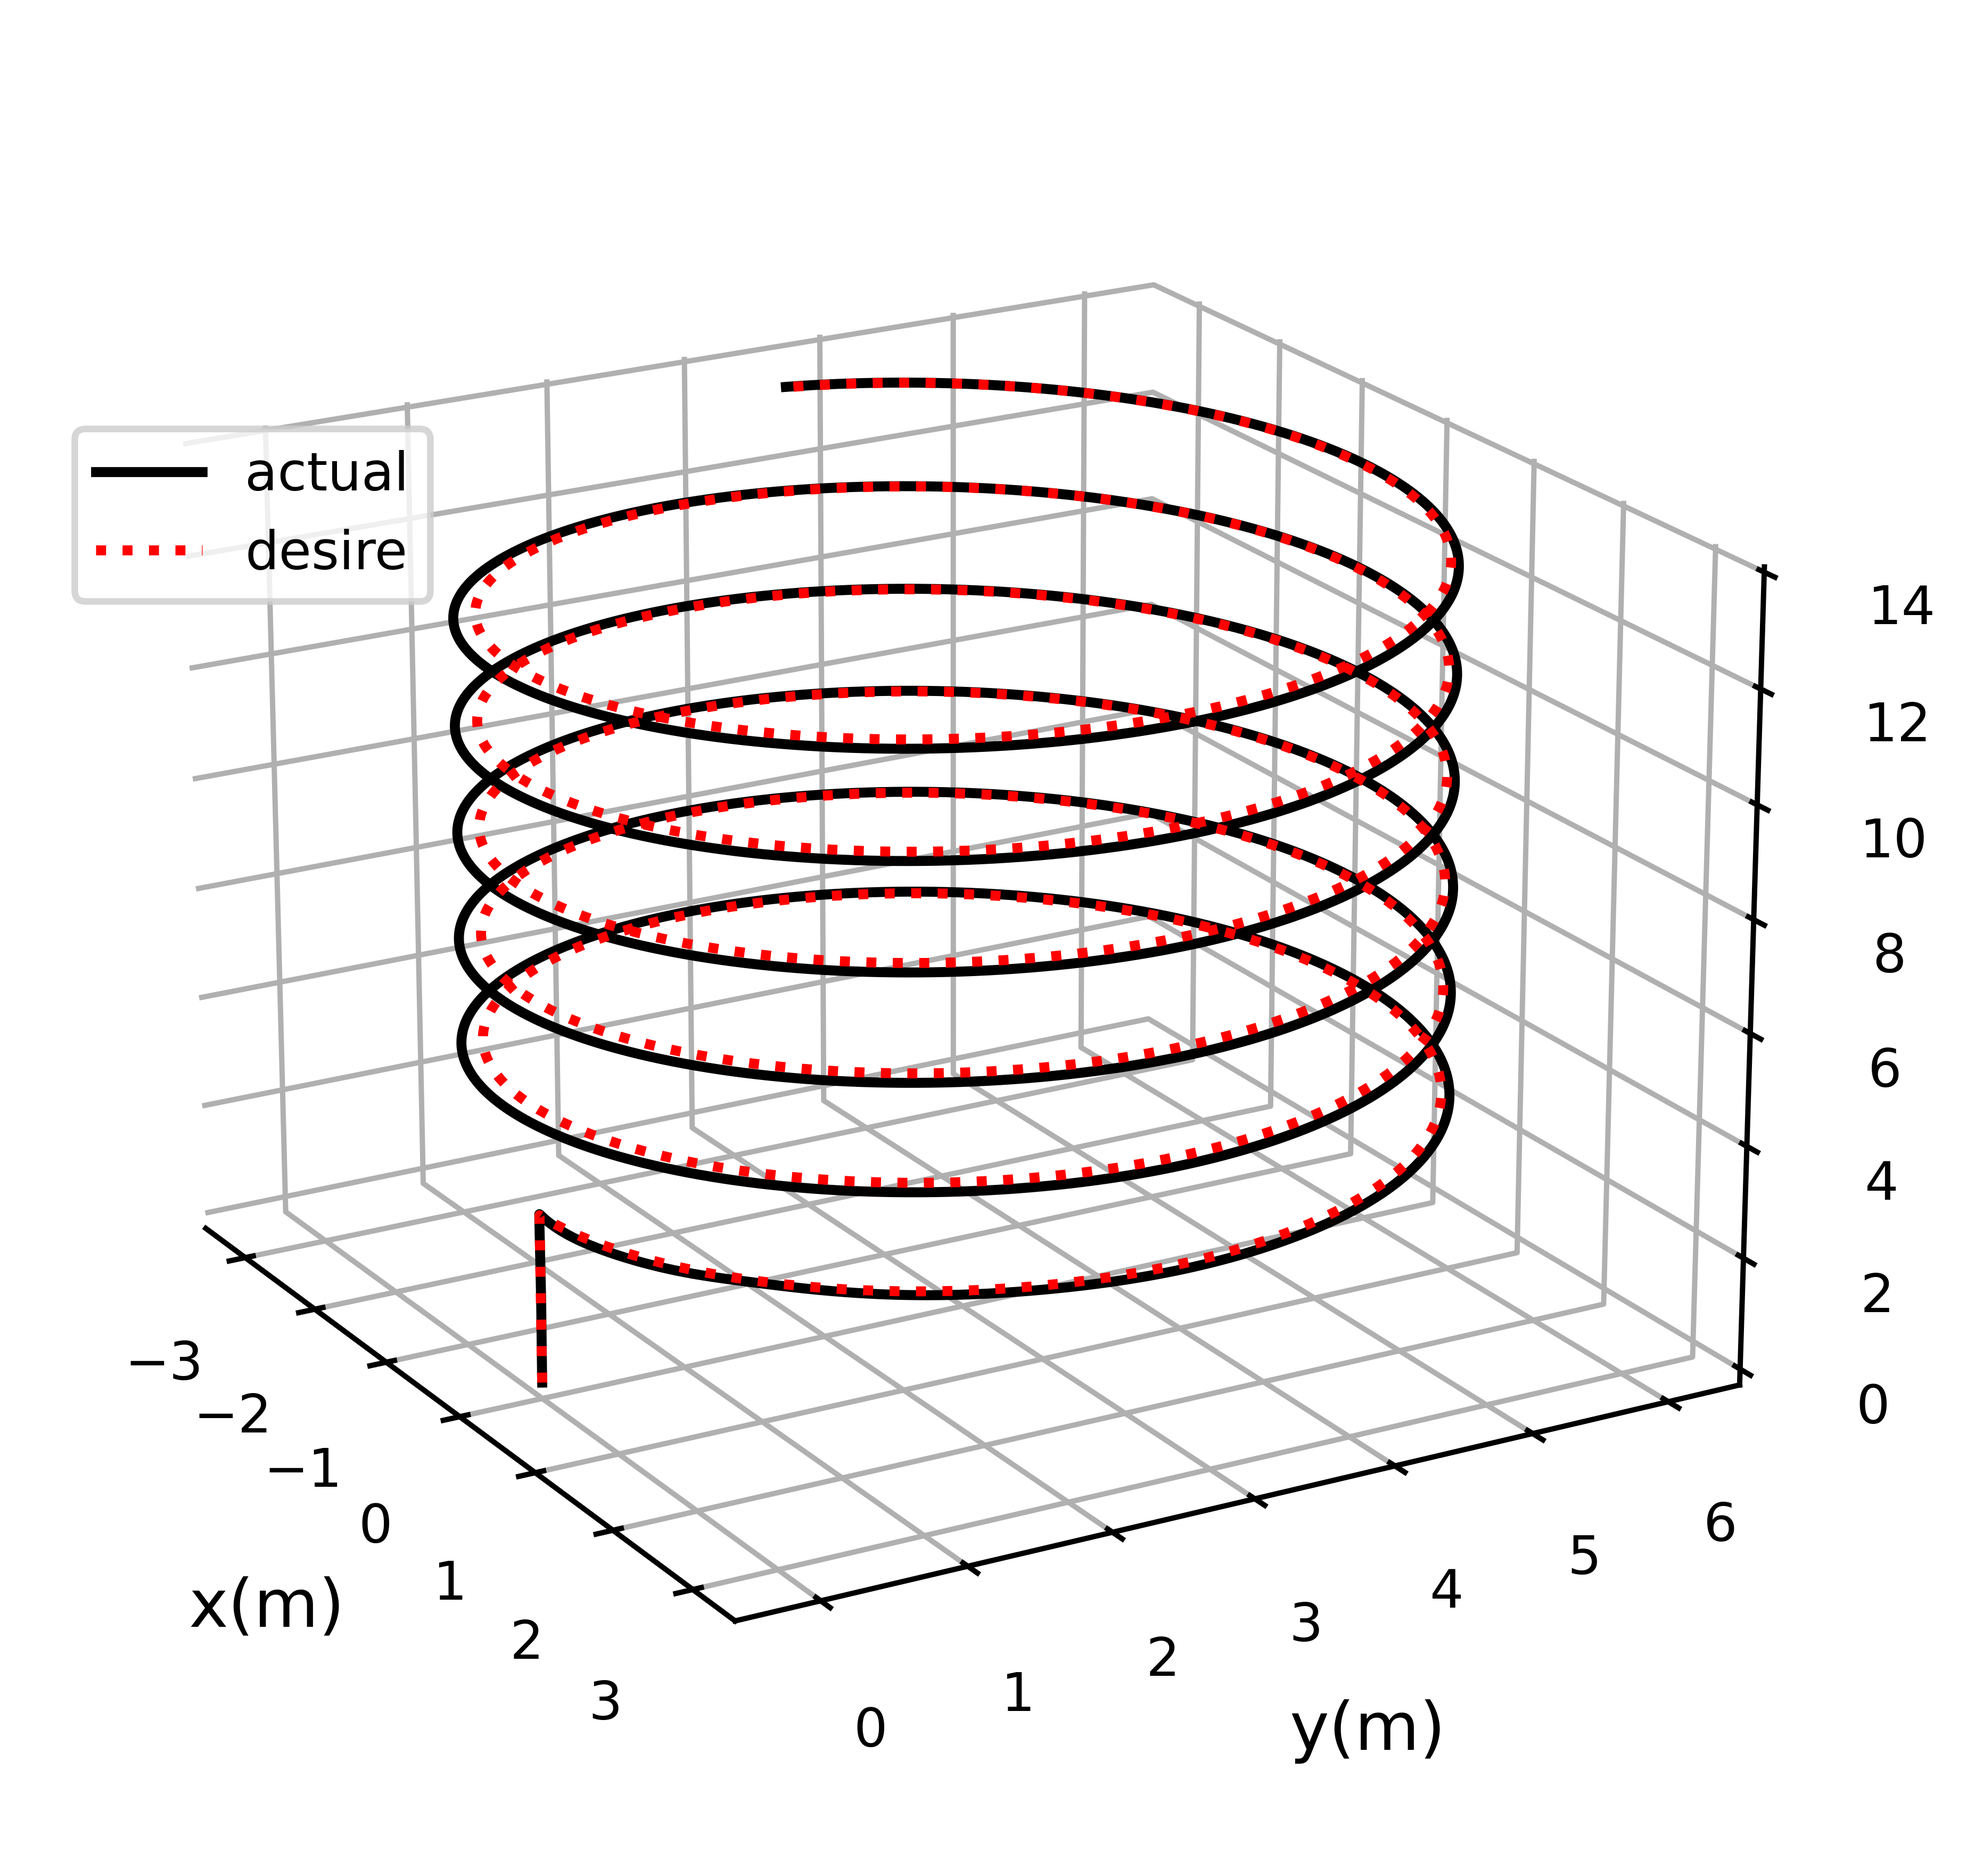
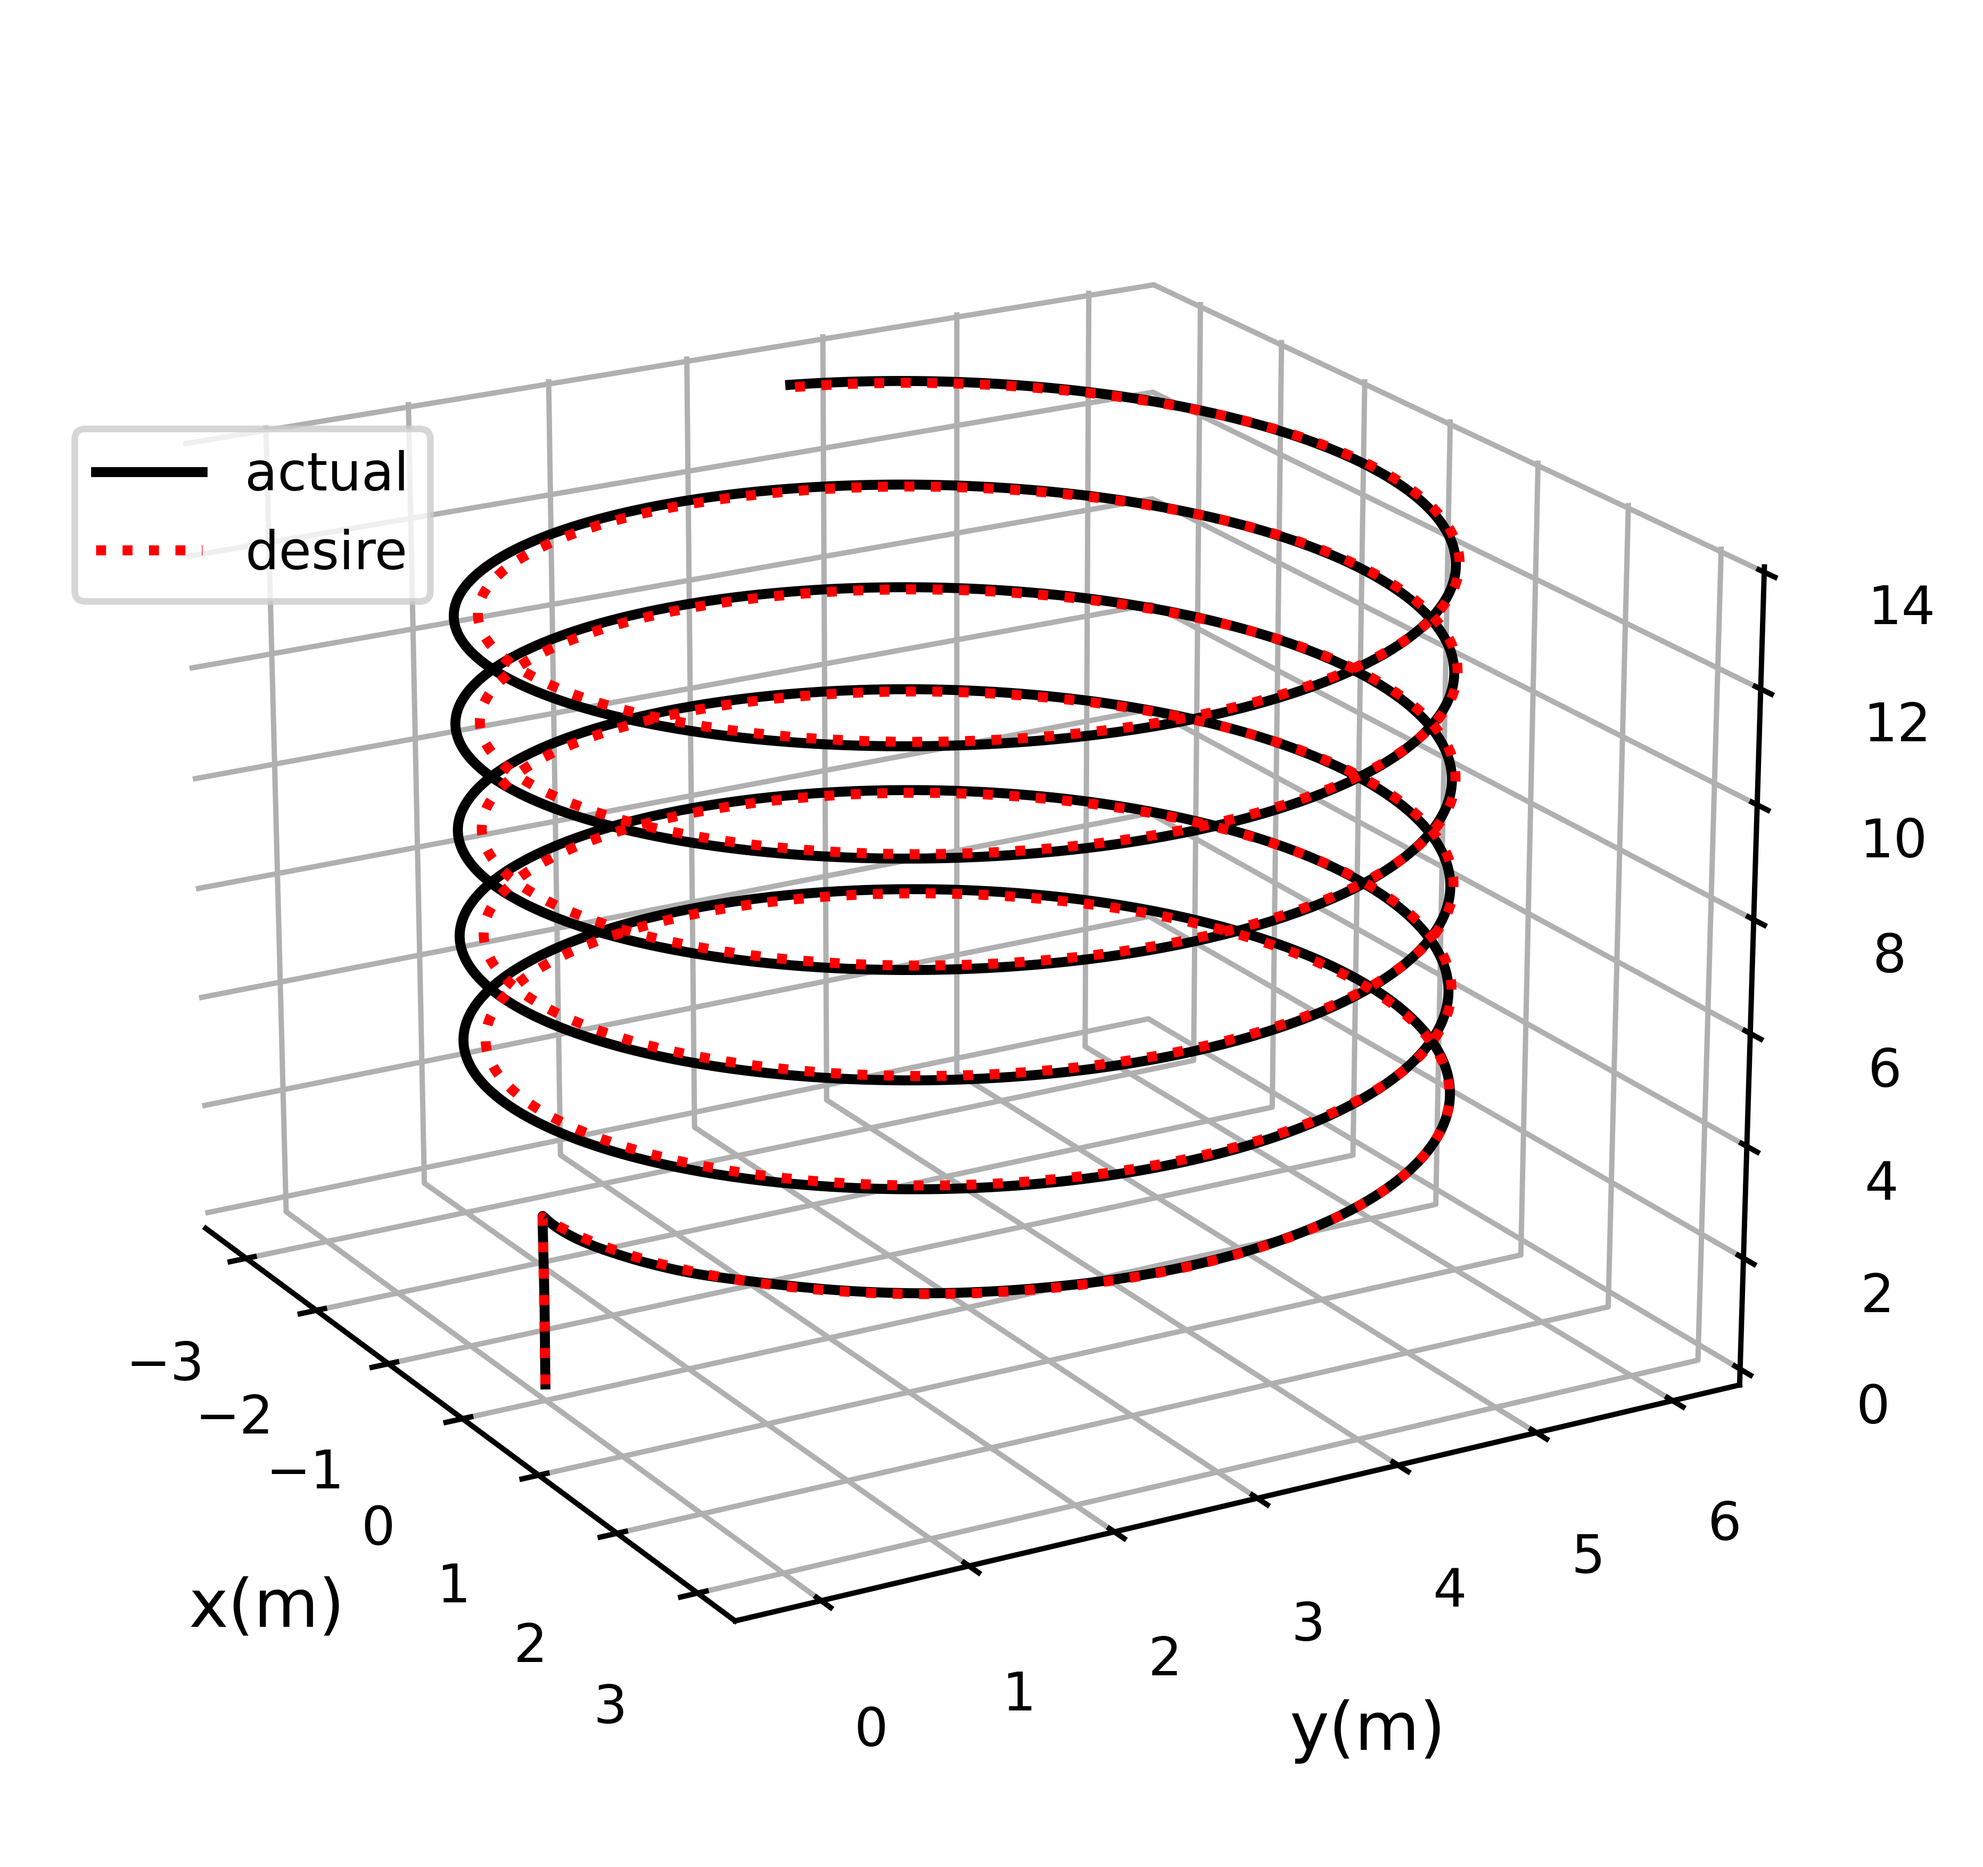
可以正常使用的几何控制

diff --git a/geometric_control_demo.py b/geometric_control_demo.py
@@ -1,0 +1,69 @@
+import math
+
+import matplotlib.pyplot as plt
+import numpy as np
+from model import quadrotors_model as QModel
+from model import quadrotors_parameters as QPara
+from draw import draw  # 导入draw模块
+from draw import draw3d  # 导入draw3d模块
+from tools import tools, trajectory_generator
+from controllers import geometric_controller
+
+def main():
+    quadrotors_model = QModel.QuadrotorsModel()  # 创建四旋翼模型对象
+    controller = geometric_controller.geometric_controller(QPara.m, QPara.g)
+    traj_generator = trajectory_generator(QPara.dt, trajectory_generator.CIRCULAR)
+    t = []  # 创建时间列表，初始时间为0
+    y_list = []
+    des_traj = []
+    t_now = 0  # 当前时间初始化为0
+
+    ctrl_buffer = np.zeros(6)
+    error_buffer = np.zeros(6)
+    takeoff_flag = False    # 起飞完成标志
+    while t_now < 60:
+        # 记录当前模型的状态
+        y_now = quadrotors_model.measurement
+        y_list.append(y_now)
+        # 提取无人机的姿态
+        attitude = y_now[6:9]
+        angular_vel = np.array(y_now[9:12]).reshape(-1, 1) 
+        r = np.array(y_now[:3]).reshape(-1, 1)
+        r_dot = np.array(y_now[3:6]).reshape(-1, 1)
+        R = tools.getR(attitude).reshape(3, 3)
+        # 获取参考轨迹
+        if not takeoff_flag and abs(quadrotors_model.measurement[2]) < abs(traj_generator.takeoff_height):
+            # step 1： 起飞
+            des_traj = traj_generator.takeoff()
+        else:
+            # step 2： 跟踪轨迹
+            takeoff_flag = True
+            des_traj = traj_generator.get_trajectory()
+        # 提取参考轨迹
+        r_des = np.array(des_traj[:3]).reshape(-1, 1)
+        psi_des = 0
+        r_dot_des = np.array(des_traj[4:]).reshape(-1, 1)
+        # 计算控制量
+        f_tau = controller.calculate_output(r, r_dot, R, angular_vel, r_des, r_dot_des, np.array([0,0,0]).reshape(-1,1), psi_des)
+        print("t: {}s   f:{:.2f}  u2:{:.6f}  u3:{:.6f}  u4:{:.6f}".format(t_now, f_tau[0][0], f_tau[1][0], f_tau[2][0], f_tau[3][0]))
+        # 计算油门
+        throttle = tools.calculate_throttle(f_tau, QPara.thrust_matrix, QPara.Cr)
+        # 更新模型
+        quadrotors_model.step(throttle, t_now)
+        # 记录轨迹与误差
+        t.append(t_now)
+        t_now += QPara.dt  # 增加时间步长
+        ctrl_out = controller.desire_state.flatten()
+        ctrl_buffer = np.vstack((ctrl_buffer, ctrl_out))
+        error_out = np.hstack([(r-r_des).flatten(), controller.desire_state.flatten()[3:]-attitude])
+        error_buffer = np.vstack((error_buffer, error_out))
+    t.append(t_now) # 保持长度一致
+    # 绘图
+    draw.draw(t,ctrl_buffer, quadrotors_model.measurement_buffer, 1, 0, "euler")
+    draw.draw_error(t, error_buffer, "error")
+    draw3d.draw3d( ctrl_buffer, quadrotors_model.measurement_buffer, 0, "euler3D")
+    plt.show()
+
+if __name__ == '__main__':
+    main()  # 调用main()函数进行程序执行
+    print("ok")

diff --git a/draw/draw.py b/draw/draw.py
@@ -104,7 +104,7 @@ def draw(t, ctrl_buffer, measurement, eval, coordinate, fig_name):
 
     plt.tight_layout(pad=0.2, h_pad=0.2, w_pad=0.2)
     plt.subplots_adjust(left=0.103, bottom=0.105, right=0.977, top=0.969, wspace=0.8, hspace=0.277)
-    # plt.savefig('./images/{}.png'.format(fig_name), format='png', dpi=900, bbox_inches='tight')
+    plt.savefig('./images/{}.png'.format(fig_name), format='png', dpi=900, bbox_inches='tight')
     # plt.show()
     # plt.close()
 
@@ -180,7 +180,7 @@ def draw_error(t, error_buffer, fig_name):
 
     plt.tight_layout(pad=0.2, h_pad=0.2, w_pad=0.2)
     plt.subplots_adjust(left=0.103, bottom=0.105, right=0.977, top=0.969, wspace=0.8, hspace=0.277)
-    # plt.savefig('./images/{}.png'.format(fig_name), format='png', dpi=900, bbox_inches='tight')
+    plt.savefig('./images/{}.png'.format(fig_name), format='png', dpi=900, bbox_inches='tight')
     # plt.show()
 
 

diff --git a/tools/tools.py b/tools/tools.py
@@ -122,8 +122,11 @@ def sat_gd(u, a, size):
             return a * np.divide(u, u_max)
 
 def saturation_fuc(x, lower=-1, upper=1):
-    x = np.where(x < lower, lower, x)
-    x = np.where(x > upper, upper, x)
+    for i in range(len(x)):
+        if x[i] < lower:
+            x[i] = lower
+        elif x[i] > upper:
+            x[i] = upper
     return x
 
 

diff --git a/controllers/geometric_controller.py b/controllers/geometric_controller.py
@@ -9,7 +9,7 @@ class geometric_controller:
     def __init__(self, m = 2.2, g = 9.8):
         self.m = m
         self.g = g
-        self.KP = np.diag([10, 10, 30])
+        self.KP = np.diag([5, 5, 50])
         self.KV = np.diag([25, 25, 15])
         self.KR = np.diag([12, 12, 12])
         self.KW = np.diag([2, 2, 2])

diff --git a/readme.md b/readme.md
@@ -1,5 +1,5 @@
 # Introductions:
-This is a project for quadrotors simulation.
+This is a project for quadrotor simulation.
 # Documentations:
 [Modeling and control of quadrotor](.\Modeling and control of quadrotor.pdf)  
 [Introduction](.\Introduction.pdf)
@@ -9,9 +9,9 @@ numpy: `pip install numpy -i https://pypi.tuna.tsinghua.edu.cn/simple`
 matplotlib: `pip install matplotlib -i https://pypi.tuna.tsinghua.edu.cn/simple`  
 # How to use:
 * Set up the model's parameters in `.\model\quadrotors_parameters.py`   
-* Set up the controller's parameters in the class ControllerParameters in `.\controllers\euler_controller.py`.  
-* Run the `main.py`, the simulation is starting.The main.py is the main process of project.The instantiation of classes of the controller parameters, controller 
-and models will be done in the main function. And cyclic call class method to complete the simulation. Finally, draw the 
+* Set up the controller's parameters in `.\controllers\geometric_controller.py`.  
+* Run the `geometric_control_demo.py`, the simulation is starting. The `geometric_control_demo.py` is the main process of project. The instantiation of classes of the controller parameters, controller 
+and model will be done in the main function. By the way, the `trajectory_generator.py` is a class used to generate the desire trajectory, and the trajectory type is specified in initiation. And cyclic call class method to complete the simulation. Finally, draw the 
 curve with draw.py and draw3d.py.  
 * The figures will be saved in the folder named images.
   
